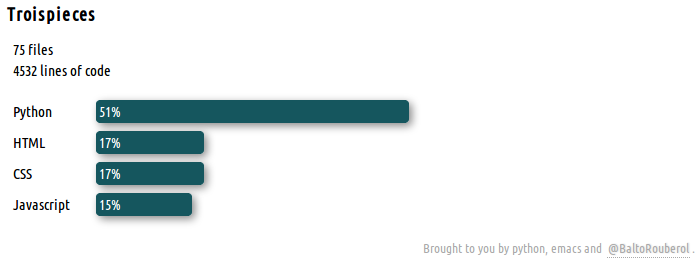
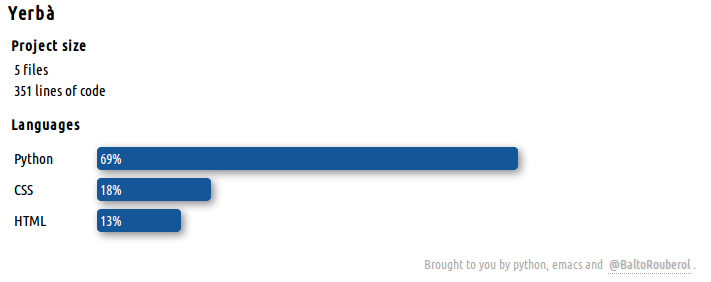
HTML/CSS modifs. Example: Yerba stats

diff --git a/yerba/html/yerba.html b/yerba/html/yerba.html
@@ -6,7 +6,7 @@
 <html lang="en">
   <head>
     <meta charset=utf-8>
-    <title>__TITLE__</title>
+    <title>Yerbà - Stats by Yerba</title>
     <meta name="description" content="A nice project stats panel generator">
     <meta name="author" content="@BaltoRouberol">
 
@@ -16,20 +16,56 @@
   </head>
   <body>
 
-    <!-- HEADER -->
+    <header>
+	<h1>Yerbà</h1>
+</header>
+
 	
     <div id="languages">
       <table width="100%">
 	<tbody>
 	  
 	  <section class ="stats"x>
-	    <!-- STATS -->
+	    <h4 class="separator">Project size</h4>
+<ul>
+	<li>5 files</li>
+	<li>351 lines of code</li>
+</ul>
+
 	  </section>
 
 	  <div class="separator"></div>
 
 	  <section>
-	  <!-- BARCHART -->
+	  <h4 class="separator">Languages</h4>
+
+<tr>
+	<td width="80">
+		<p class"lang">Python</p>
+	</td>
+	<td>
+		<p class="bar" style="width: 69%">69%</p>
+	</td>
+</tr>
+
+<tr>
+	<td width="80">
+		<p class"lang">CSS</p>
+	</td>
+	<td>
+		<p class="bar" style="width: 18%">18%</p>
+	</td>
+</tr>
+
+<tr>
+	<td width="80">
+		<p class"lang">HTML</p>
+	</td>
+	<td>
+		<p class="bar" style="width: 13%">13%</p>
+	</td>
+</tr>
+
 	  </section>
 
 	</tbody>

diff --git a/py/display_results.py b/py/display_results.py
@@ -32,7 +32,8 @@ def fill_html(root, results, stats, title):
     
     # --- STATS GENERATION ---
     nbfiles, nblines = stats
-    st = '<ul>\n'
+    st  = '<h4 class="separator">Project size</h4>\n'
+    st += '<ul>\n'
     st += '\t<li>{0} files</li>\n'.format(nbfiles)
     st += '\t<li>{0} lines of code</li>\n'.format(nblines)
     st += '</ul>\n'
@@ -40,6 +41,7 @@ def fill_html(root, results, stats, title):
 
     # --- BARCHART GENERATION ---
     out = ''
+    out += '<h4 class="separator">Languages</h4>\n'
     for lang, value in results:
         out += '\n<tr>\n'
         out += '\t<td width="80">\n'
